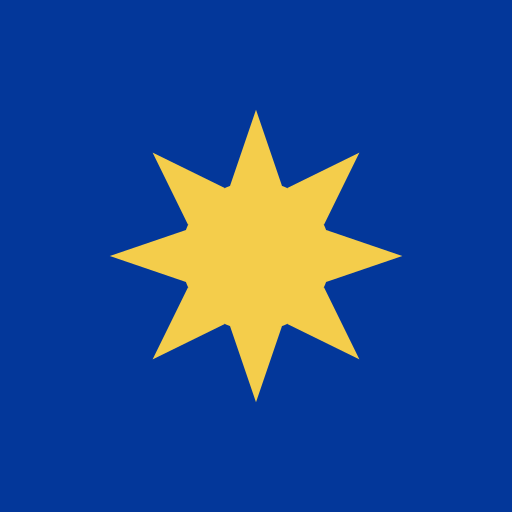
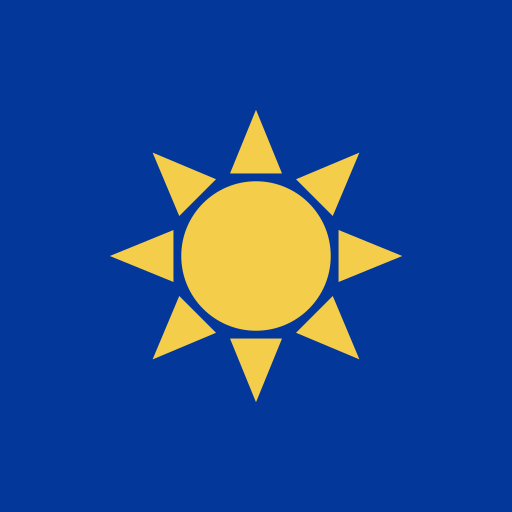
fix(web): ring gap on the sun motif, softer dark completion glow
The eight rays now start 0.6 units outside the disc (base at y 5.65 against
a 5.75 disc), so the mark reads as the flag's sun with separate rays rather
than an eight-pointed star. The five icons are re-rendered from the same
RAY string, so the node, the favicon, the PWA icons and the Apple icon
match; the maskable icon stays inside its safe zone.

The completion-screen sun gets a radial mask in both schemes and drops from
80 to 60 percent in dark, so it reads as a warm glow instead of a solid
brown star through the title and the score. The worst text pair over it in
dark rises from 4.78 to 5.70 on the composite (5.87 in pixels).

Both were owner calls after the plan 012 production check. Layout gate
green with no snapshot update; 213 Vitest, 18 Playwright across four
projects.

Changed region(s): [[0.25, 0.25, 0.75, 0.75]]

diff --git a/apps/web/components/motif/Sun.test.tsx b/apps/web/components/motif/Sun.test.tsx
@@ -2,8 +2,10 @@
  * Behaviors (plan 012, D39): the flag's eight-ray sun as an inline SVG.
  * - decorative: aria-hidden, and data-motif so the layout gate skips it
  * - one disc and eight ray paths, filled with currentColor so a text-*
- *   class colors it; the disc (radius 5.75) and the rays (a 4-unit base on
- *   the disc's edge) fill the 24px box like a lucide icon does
+ *   class colors it; the disc (radius 5.75) and the rays (a 4-unit base)
+ *   fill the 24px box like a lucide icon does
+ * - it reads as the flag's sun, a disc with separate rays: every ray starts
+ *   clear of the disc, leaving a ring of background between them
  * - 24x24 by default like a lucide icon, so it swaps in without moving
  *   anything; className passes through
  */
@@ -29,11 +31,12 @@ describe("Sun", () => {
     const angles = [...rays].map((r) => r.getAttribute("transform"));
     expect(new Set(angles).size).toBe(8);
     // The ray: a triangle from the top of the box (y 0.75) down to a 4-unit
-    // base whose corners sit on the disc's edge (distance 5.75 from center).
+    // base that stops short of the disc (radius 5.75) by more than half a unit.
     const [tip, right, left] = (rays[0].getAttribute("d") ?? "").match(/-?[\d.]+\s+-?[\d.]+/g)?.map((p) => p.split(/\s+/).map(Number)) ?? [];
     expect(tip).toEqual([12, 0.75]);
     expect(right[0] - left[0]).toBeCloseTo(4, 5);
-    expect(Math.hypot(right[0] - 12, right[1] - 12)).toBeCloseTo(5.75, 2);
+    expect(right[1]).toBe(left[1]);
+    expect(12 - right[1]).toBeGreaterThan(5.75 + 0.5);
     expect(svg?.querySelector("[id]")).toBeNull();
   });
 

diff --git a/apps/web/components/runner/Runner.tsx b/apps/web/components/runner/Runner.tsx
@@ -271,11 +271,13 @@ function EndScreen({
       <div className="relative isolate flex flex-col items-center gap-3 text-center">
         <h1 className="text-3xl font-extrabold lg:text-4xl">{title}</h1>
         <p className="relative text-5xl font-extrabold text-gold lg:text-6xl">
-          {/* Centered behind the score. Accent gold at 25% in light; in dark the
-              warm dark gold at 80%, since gold at a low opacity turns olive on
-              navy. Text over it stays at 4.5:1 (EndScreenSun.test.tsx). */}
+          {/* Centered behind the score, a glow rather than a stamp: a radial mask
+              (farthest-corner, so the ray tips keep about a fifth of the
+              opacity) fades it toward the rays. Accent gold at 25% in light; in dark
+              the warm dark gold at 60%, since gold at a low opacity turns olive
+              on navy. Text over it stays at 4.5:1 (EndScreenSun.test.tsx). */}
           {!practice && (
-            <Sun className="pointer-events-none absolute left-1/2 top-1/2 -z-10 size-40 -translate-x-1/2 -translate-y-1/2 text-accent opacity-25 dark:text-highlight dark:opacity-80" />
+            <Sun className="pointer-events-none absolute left-1/2 top-1/2 -z-10 size-40 -translate-x-1/2 -translate-y-1/2 text-accent opacity-25 mask-circle mask-radial-from-30% mask-radial-to-75% dark:text-highlight dark:opacity-60" />
           )}
           {xp} XP
         </p>

diff --git a/apps/web/components/runner/EndScreenSun.test.tsx b/apps/web/components/runner/EndScreenSun.test.tsx
@@ -63,6 +63,9 @@ describe("end screen sun", () => {
     expect(sun).not.toBeNull();
     expect(sun).toHaveAttribute("aria-hidden", "true");
     expect(sun).toHaveClass("-z-10", "pointer-events-none", "text-accent", "dark:text-highlight");
+    // A glow, not a stamp: a radial mask fades the sun toward its ray tips
+    // in both schemes, and dark paints the warm gold at 60% at most.
+    expect(sun).toHaveClass("mask-circle", "mask-radial-from-30%", "mask-radial-to-75%", "opacity-25", "dark:opacity-60");
     // Centered behind the score: the sun sits in the "N XP" line, inside the isolated title group.
     expect(sun?.parentElement).toHaveTextContent(/XP$/);
     expect(sun?.parentElement).toHaveClass("relative");
@@ -79,7 +82,7 @@ describe("end screen sun", () => {
 
   it.each([
     ["light", "accent", 0.25],
-    ["dark", "highlight", 0.8],
+    ["dark", "highlight", 0.6],
   ] as const)("keeps the text over it readable in %s (%s at %s)", (scheme, token, alpha) => {
     const t = parseTokens(readFileSync(path.resolve(__dirname, "../../app/globals.css"), "utf8"));
     const c = (n: string) => toRgba(resolveValue(t[scheme].get(n) as string, t[scheme]));

diff --git a/apps/web/components/motif/Sun.tsx b/apps/web/components/motif/Sun.tsx
@@ -1,12 +1,14 @@
 import type { SVGProps } from "react";
 
 /**
- * One ray pointing up: a triangle from the top of the box to a 4-unit base
- * whose corners sit on the disc's edge (5.75 from the center). The other seven
- * are this one rotated about the center. Bold enough to fill the 24px icon
- * box like a stroked lucide icon, and to read as a sun in a 16px favicon.
+ * One ray pointing up: a triangle from the top of the box to a 4-unit base at
+ * y 5.65, 6.35 from the center, so it starts 0.6 units clear of the disc
+ * (radius 5.75). That ring of background between the disc and every ray makes
+ * the mark read as the flag's sun (a disc with separate rays) rather than an
+ * eight-pointed star. The other seven rays are this one rotated about the
+ * center. Bold enough to fill the 24px icon box like a stroked lucide icon.
  */
-const RAY = "M12 .75 14 6.61 10 6.61z";
+const RAY = "M12 .75 14 5.65 10 5.65z";
 const ANGLES = [0, 45, 90, 135, 180, 225, 270, 315];
 
 /**
